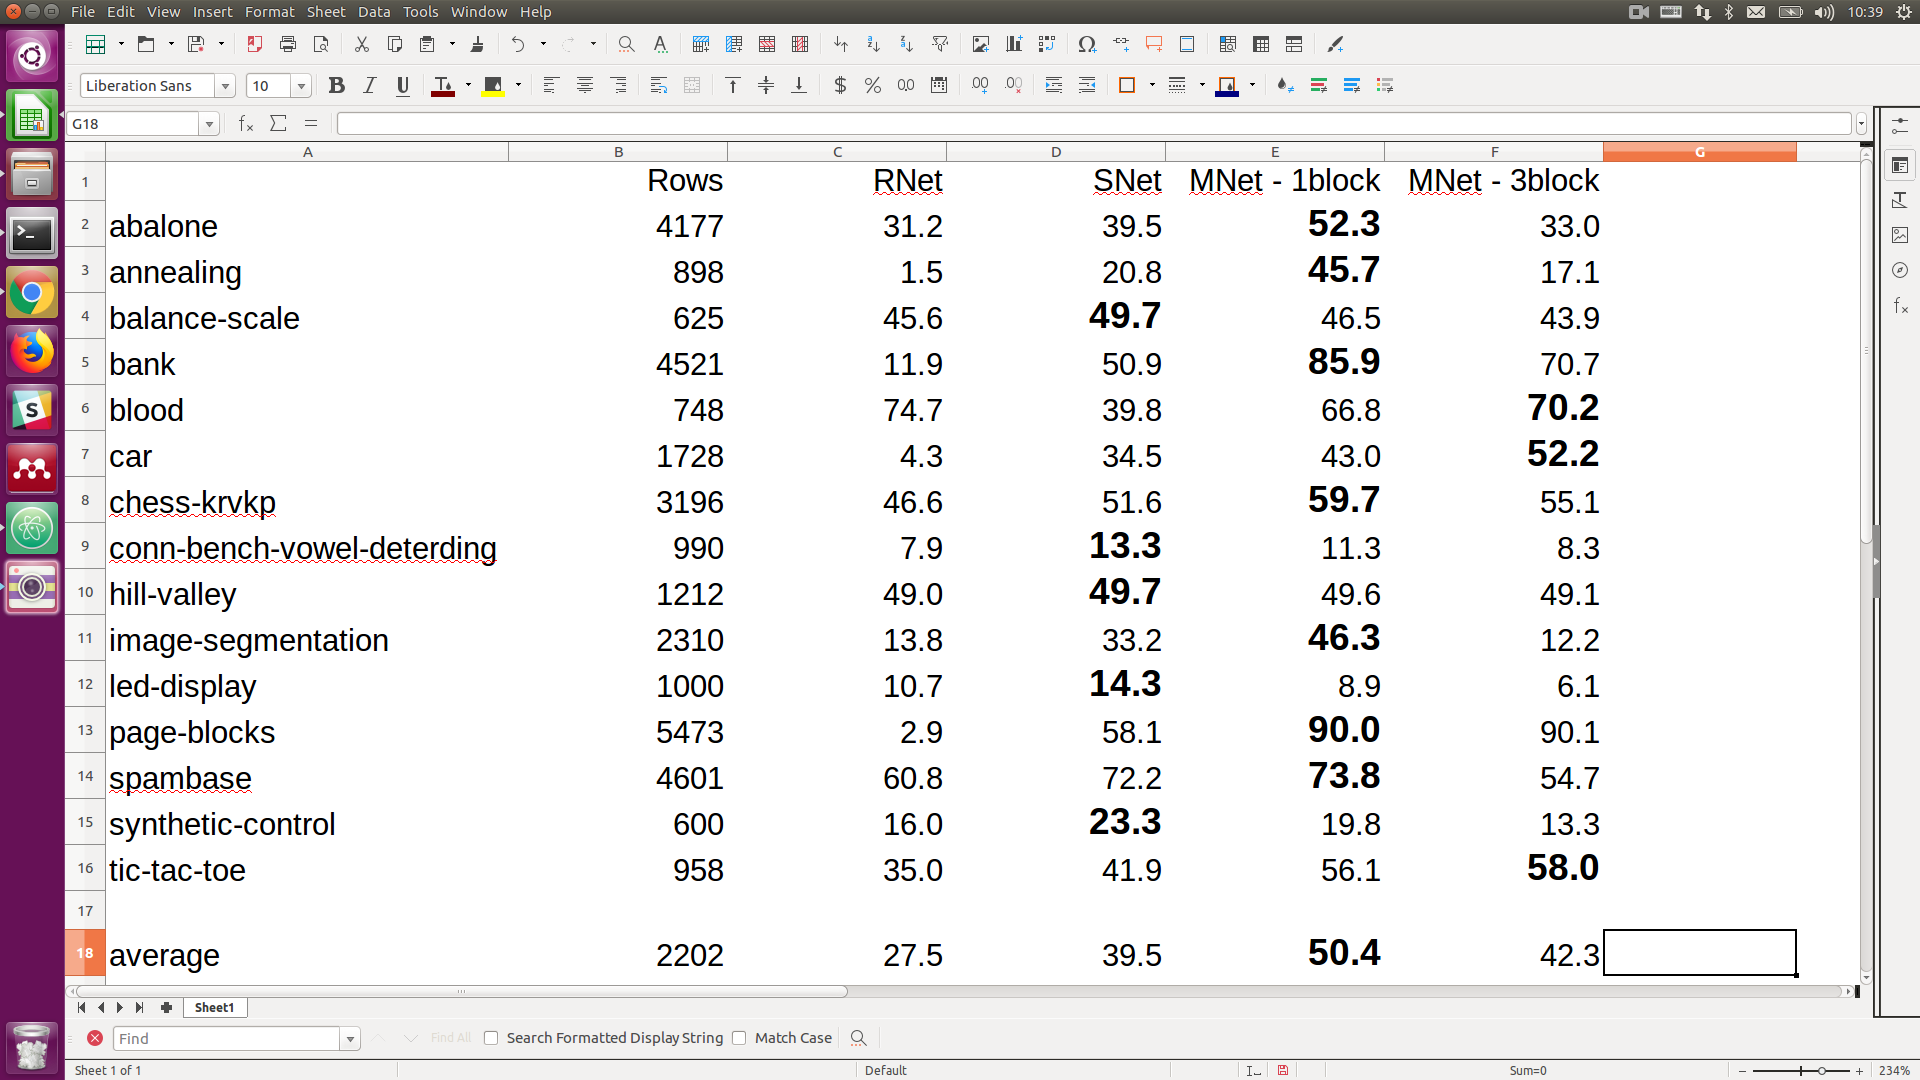
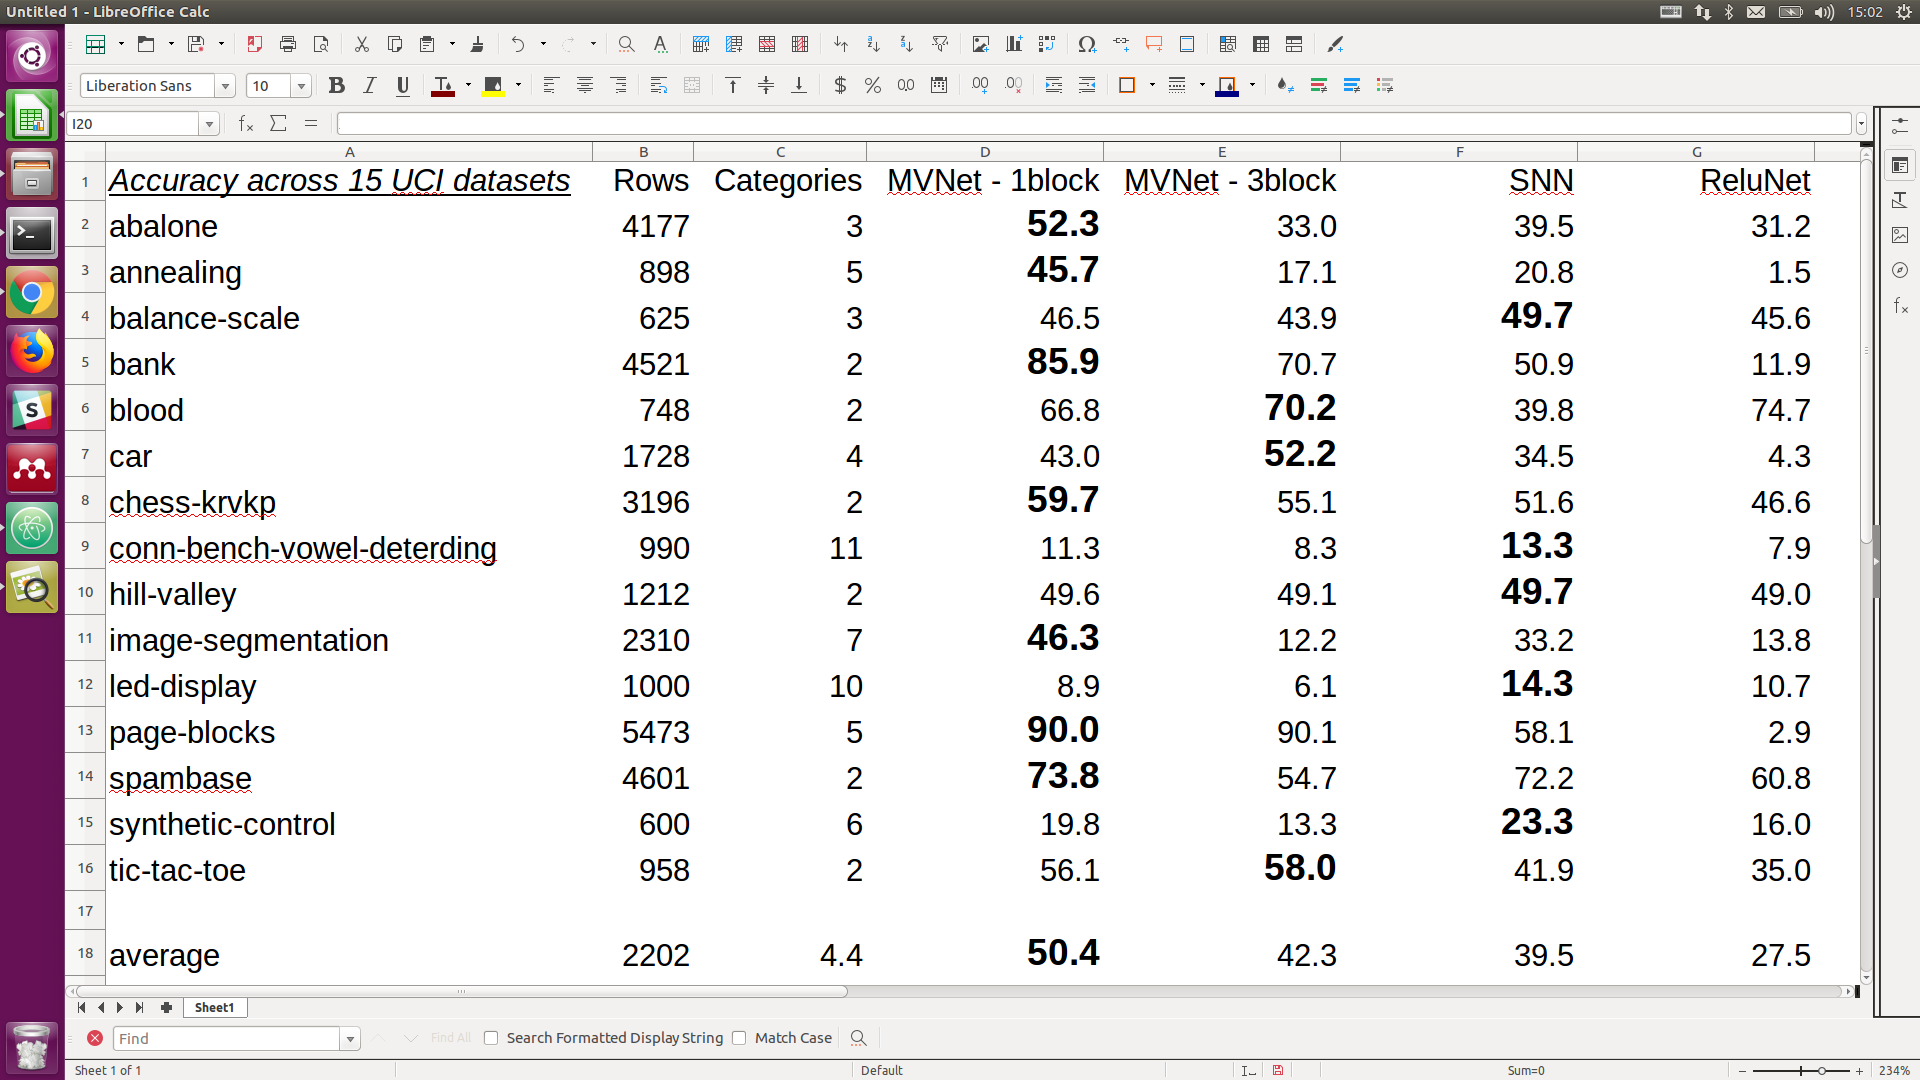
Better screenshot/parsing

diff --git a/parse-log.js b/parse-log.js
@@ -25,10 +25,13 @@ let parsed = {}
 for (let i = 0; i < nets.length; i++) {
   const net = nets[i].trim()
   const result = results[i]
-  const [rows, cols, labels, title] = result
+  let [rows, cols, labels, title] = result
     .match(/(\d+) rows, (\d+) cols, (\d+) unique labels in '([\w\-]+)'/)
     .slice(1)
     .map(s => s.trim())
+  rows = parseInt(rows, 10)
+  cols = parseInt(cols, 10)
+  labels = parseInt(labels, 10)
 
   const [loss, accuracy] = maxBy(
     result
@@ -45,18 +48,20 @@ for (let i = 0; i < nets.length; i++) {
   )
 
   if (!parsed[title]) parsed[title] = {}
-  parsed[title][net] = {title, net, loss, accuracy, labels}
+  parsed[title][net] = {title, net, loss, accuracy, rows, cols, labels}
 }
 
 parsed = Object.values(parsed)
 parsed.sort((a, b) => (a['RNet'].title > b['RNet'].title ? 1 : -1))
 
-console.log(',RNet,SNet,MNet - 1block, MNet - 3block')
+console.log(',Rows,Labels,RNet,SNet,MNet - 1block, MNet - 3block')
 parsed.forEach(v => {
   const title = v.RNet.title
+  const r_ = v['RNet'].rows
+  const l_ = v['RNet'].labels
   const r = (v['RNet'].accuracy * 100).toFixed(1)
   const s = (v['SNet'].accuracy * 100).toFixed(1)
   const m1 = (v['MNet - 1block'].accuracy * 100).toFixed(1)
   const m3 = (v['MNet - 3block'].accuracy * 100).toFixed(1)
-  console.log(`${title},${r},${s},${m1},${m3}`)
+  console.log(`${title},${r_},${l_},${r},${s},${m1},${m3}`)
 })
